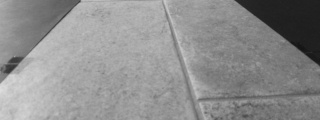
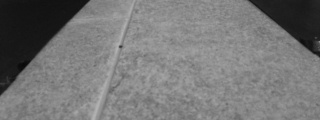
Added emergency stop during self drive

diff --git a/neural_network_training/collect_training_images.py b/neural_network_training/collect_training_images.py
@@ -20,7 +20,7 @@ class CollectTrainingImages:
     # initialize the camera and grab a reference to the raw camera capture
     camera = PiCamera()
     rawCapture = PiRGBArray(camera, size=(320, 240))
-    logger = logging.getLogger('driverless_car')
+    logger = logging.getLogger()
     handler = logging.FileHandler('/var/log/driverless_car/driverless_car_data_collection.log')
     formatter = logging.Formatter('%(asctime)s %(levelname)s %(message)s')
     handler.setFormatter(formatter)
@@ -80,7 +80,7 @@ class CollectTrainingImages:
                 gray_image = cv2.cvtColor(frame.array, cv2.COLOR_BGR2GRAY)
 
                 # select lower half of the image
-                lower_half = gray_image[80:200, :]
+                lower_half = gray_image[120:240, :]
 
                 # save streamed images
                 cv2.imwrite('training_images/frame{:>05}.jpg'.format(frame_number), lower_half)
@@ -99,7 +99,7 @@ class CollectTrainingImages:
                     image_array = np.vstack((image_array, temp_array))
                     label_array = np.vstack((label_array, self.k[1]))
                     saved_frame += 1
-                    self.car.set_motors(0.3, 0, 0.4, 0)
+                    self.car.set_motors(0.315, 0, 0.4, 0)
                 elif self.joy.Y():
                     # print("Forward")
                     saved_frame += 1
@@ -111,7 +111,7 @@ class CollectTrainingImages:
                     image_array = np.vstack((image_array, temp_array))
                     label_array = np.vstack((label_array, self.k[3]))
                     saved_frame += 1
-                    self.car.set_motors(0.4, 0, 0.3, 0)
+                    self.car.set_motors(0.4, 0, 0.315, 0)
                 elif self.joy.dpadDown():
                     self.logger.info('Keypad down pressed, exiting')
                     self.car.stop()

diff --git a/neural_network_training/self_drive.py b/neural_network_training/self_drive.py
@@ -9,7 +9,7 @@ from picamera.array import PiRGBArray
 import logging
 
 
-logger = logging.getLogger('driverless_car')
+logger = logging.getLogger()
 handler = logging.FileHandler('/var/log/driverless_car/driverless_car.log')
 formatter = logging.Formatter('%(asctime)s %(levelname)s %(message)s')
 handler.setFormatter(formatter)
@@ -42,18 +42,22 @@ class CarControl:
         self.car = Car(9, 6)
 
     def steer(self, prediction):
+        distance = self.car.get_distance()
         if prediction == 1:
             # speed left wheel, left dir, speed right wheel, right dir
-            self.car.set_motors(0.3, 0, 0.4, 0)
+            self.car.set_motors(0.315, 0, 0.4, 0)
             # print("Left")
         elif prediction == 2:
             self.car.set_motors(0.3, 0, 0.3, 0)
             # print("Forward")
         elif prediction == 3:
-            self.car.set_motors(0.4, 0, 0.3, 0)
+            self.car.set_motors(0.4, 0, 0.315, 0)
             # print("Right")
         else:
-            self.stop()
+            self.car.stop()
+
+        if distance < 15:
+            self.car.stop()
 
     def stop(self):
         self.car.stop()
@@ -85,7 +89,7 @@ class StreamFrames:
                 gray = cv2.cvtColor(image, cv2.COLOR_BGR2GRAY)
 
                 # lower half of the image
-                half_gray = gray[80:200, :]
+                half_gray = gray[120:240, :]
 
                 # reshape image
                 image_array = half_gray.reshape(1, 38400).astype(np.float32)

diff --git a/xbox_control/remote_control_car.py b/xbox_control/remote_control_car.py
@@ -27,11 +27,11 @@ while not joy.Back():
     if joy.A():
         car.reverse()
     elif joy.B():
-        car.set_motors(0.4, 0, 0.332, 0)
+        car.set_motors(0.4, 0, 0.315, 0)
     elif joy.X():
-        car.set_motors(0.332, 0, 0.4, 0)
+        car.set_motors(0.315, 0, 0.4, 0)
     elif joy.Y():
-        car.set_motors(0.4, 0, 0.4, 0)
+        car.set_motors(0.3, 0, 0.3, 0)
     # DPAD, up, down, left or right
     elif joy.dpadUp():
         car.forward()

diff --git a/neural_network_training/train_mlp.py b/neural_network_training/train_mlp.py
@@ -8,7 +8,7 @@ import logging
 
 class TrainMLP:
 
-    logger = logging.getLogger('driverless_car')
+    logger = logging.getLogger()
     handler = logging.FileHandler('/var/log/driverless_car/driverless_car_training.log')
     formatter = logging.Formatter('%(asctime)s %(levelname)s %(message)s')
     handler.setFormatter(formatter)
